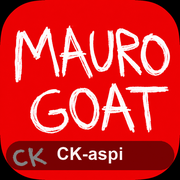
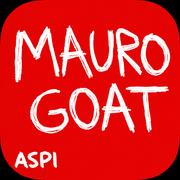
Aspi-icoon vervangen door aangeleverd ontwerp (MAURO GOAT / ASPI)
Nieuw icoon van Mauro (192/512/180) in /aspi/; sw-cache naar v3 zodat
toestellen het oppikken.

diff --git a/aspi/sw.js b/aspi/sw.js
@@ -1,6 +1,6 @@
 // Service worker voor de aspi-app (scope /aspi/). Cachet de eigen shell + de
 // gedeelde bestanden uit de hoofdmap, zodat de app ook zonder bereik opent.
-const CACHE = 'drank-aspi-v2';
+const CACHE = 'drank-aspi-v3';
 const PREFIX = 'drank-aspi-v'; // enkel eigen oude versies opruimen (niet die van de leiding-app)
 const ASSETS = [
   '.', 'index.html', 'manifest.json',